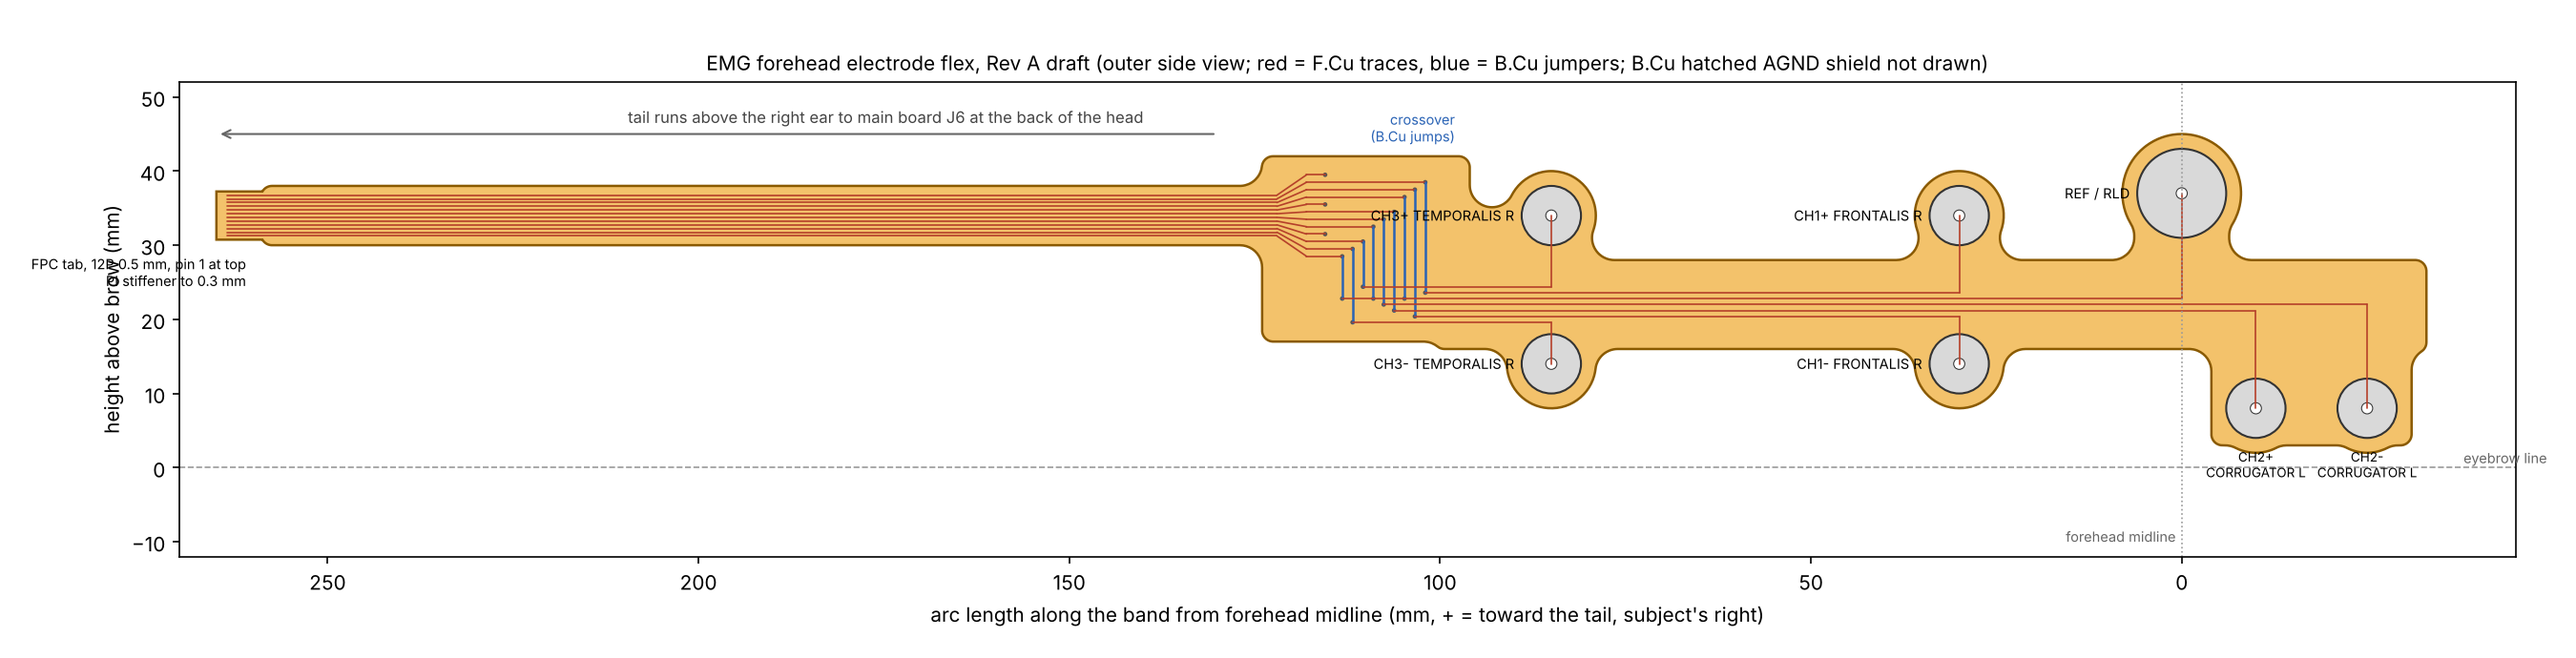
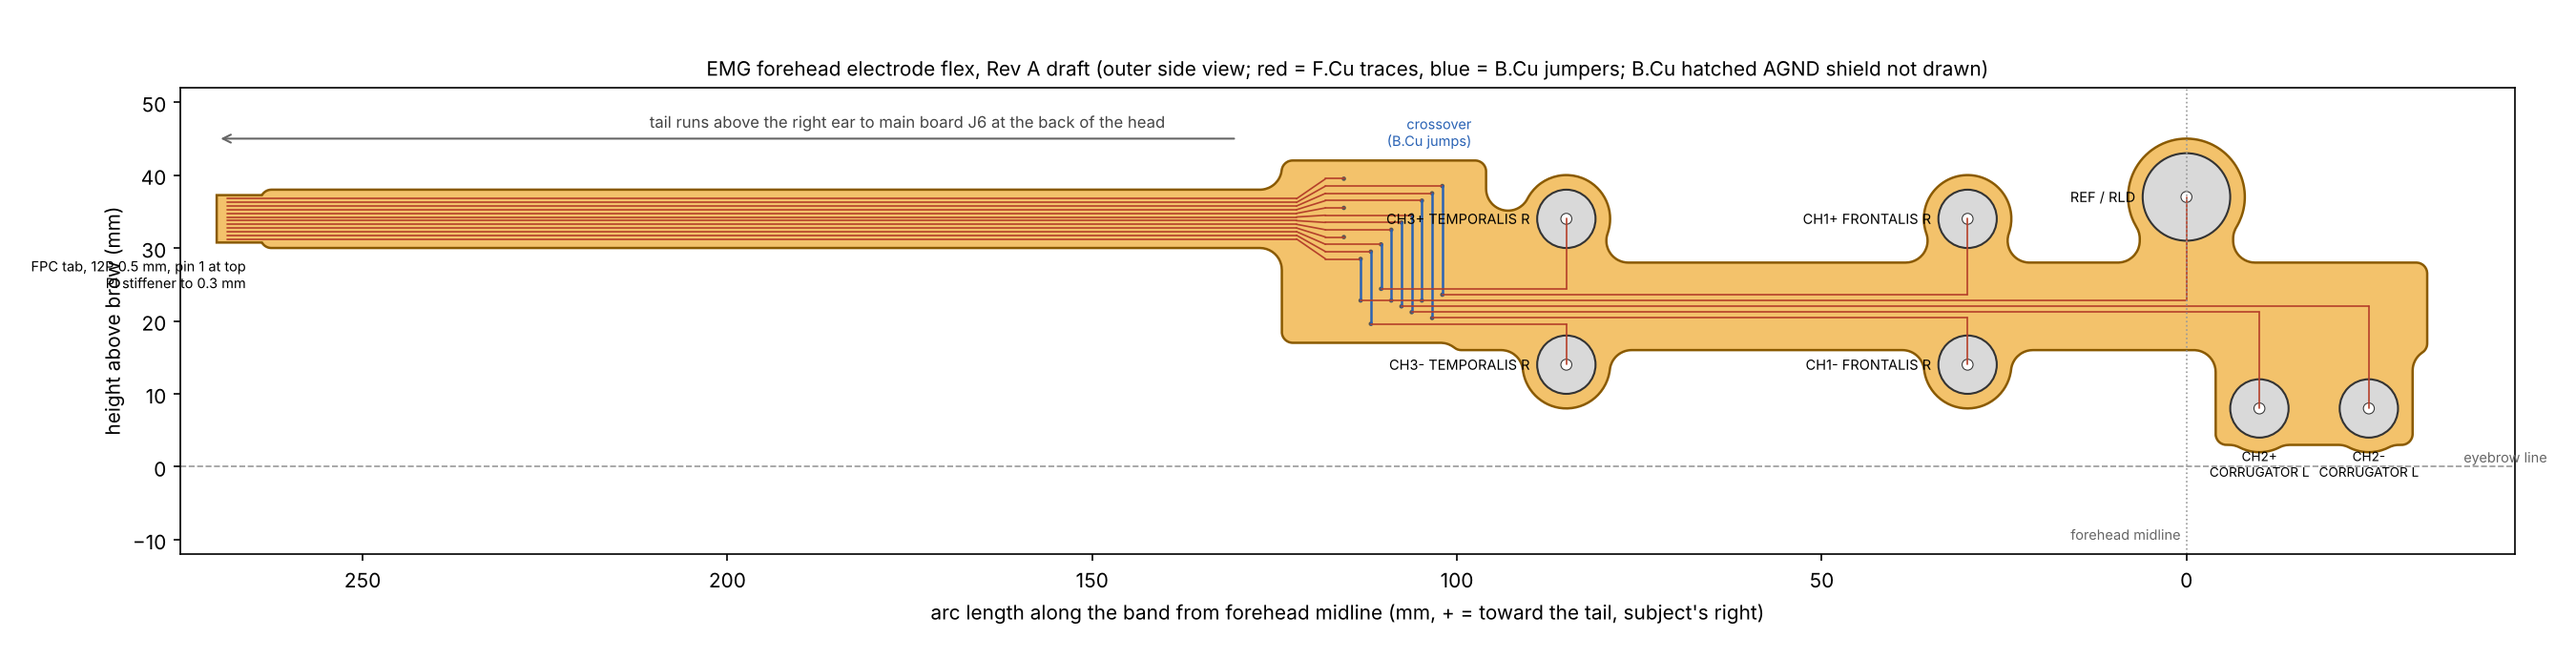
Flex: size tail for a 58 cm head
Pin order rechecked against main board J6 pads (57179a6): unchanged.

Claude-Session: https://claude.ai/code/session_014gX5rSabikoFKBd7bBuHGf

diff --git a/emg_headband/hardware/emg_flex_electrodes/gen_flex.py b/emg_headband/hardware/emg_flex_electrodes/gen_flex.py
@@ -65,7 +65,9 @@ SPREAD_PITCH = 1.0
 X_VIA0, X_VIA_STEP = 102.0, 1.4   # crossover via columns
 X_GND_VIA = 115.5
 X_SPREAD0, X_SPREAD1 = 118.0, 122.0
-X_END = 265.0        # tail end (connector edge); trim to fit the band
+# Tail end: half of a 58 cm head (290 mm) minus 26 mm from the back centre
+# to J6 contacts on the 57 mm main board, plus ~6 mm slack.
+X_END = 270.0
 TAB_LEN = 6.0        # stiffened FPC tab
 TAB_W = 6.5          # Hirose FH34SRJ-12S FPC width "G" = 6.5 +/- 0.05
 FINGER = (2.5, 0.3)  # exposed contact length x width

diff --git a/emg_headband/hardware/emg_flex_electrodes/README.md b/emg_headband/hardware/emg_flex_electrodes/README.md
@@ -117,9 +117,10 @@ Check before ordering:
 - **Main board orientation on the head.** If it is worn the other way up or
   with F facing the head, the tail must come from the other side or the pin
   order mirrors: set `TAIL_SIDE` or reverse `PINS` and regenerate.
-- **Tail length.** `X_END` puts the connector 265 mm along the band from the
-  midline, which assumes a 57 cm head and J6 about 20 mm short of the back
-  centre. Measure on the real band and the main board.
+- **Tail length.** `X_END` puts the tab end 270 mm along the band from the
+  midline: half of Liam's 58 cm head (290 mm), minus about 26 mm from the back
+  centre to J6's contacts on the 57 mm main board, plus about 6 mm slack.
+  Recheck if the main board layout moves J6.
 - **Elastic bands.** A flex does not stretch. If the band is elastic, fix the
   flex at the forehead and at the connector and leave slack (or a sewn S-loop)
   along the tail.
